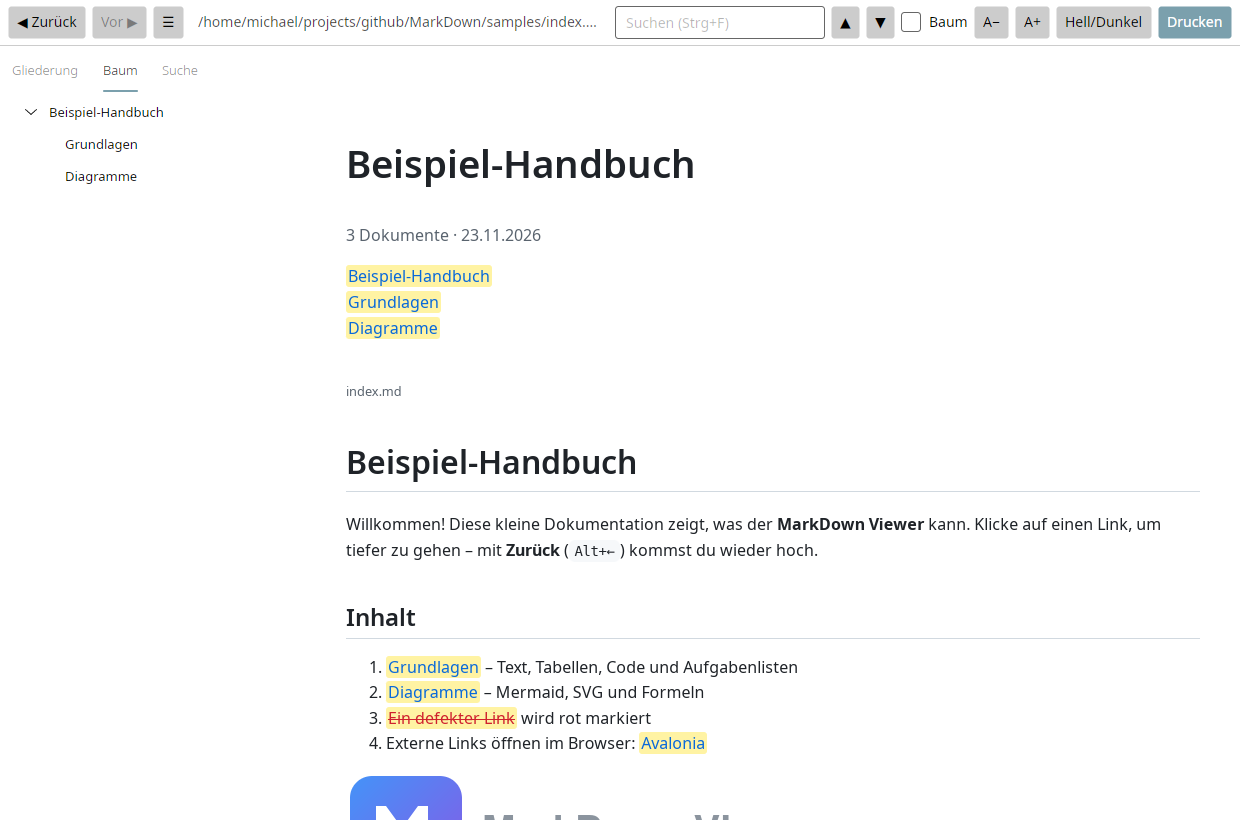
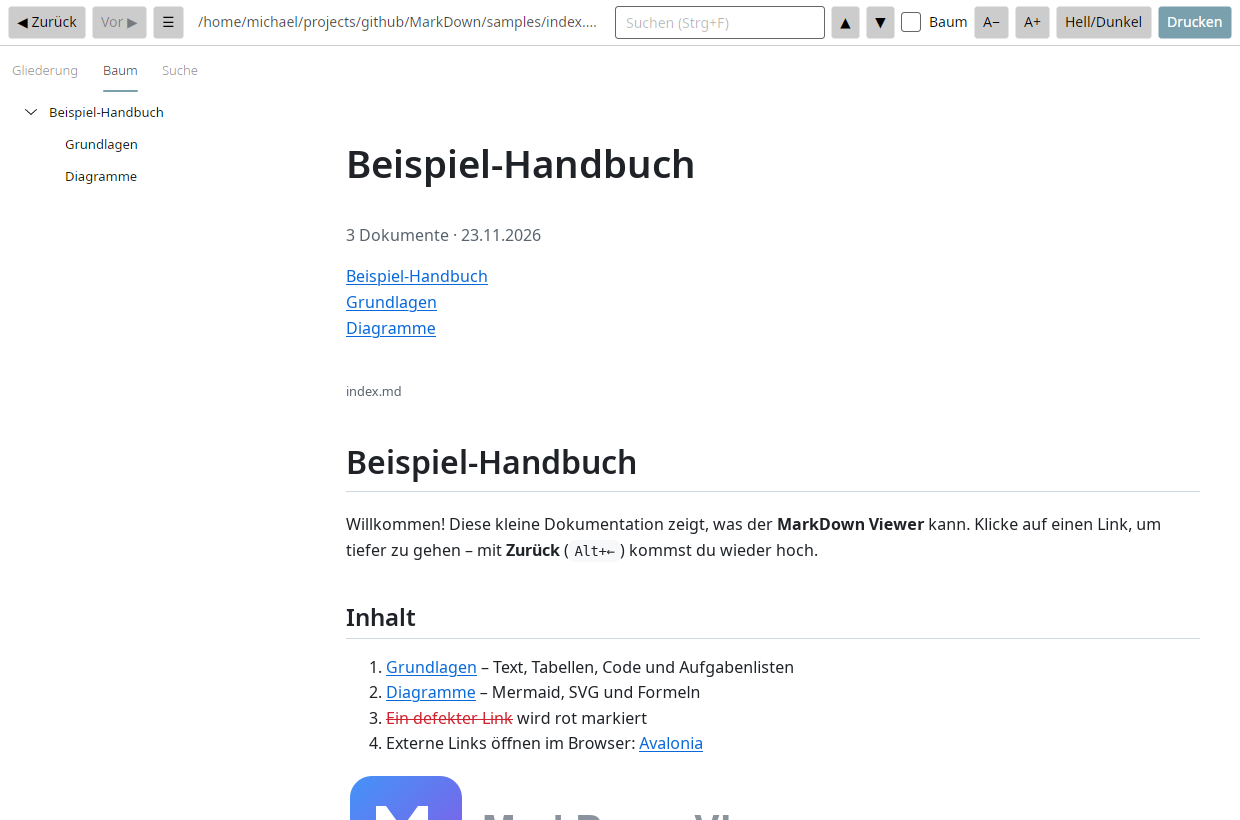
Druck: Links blau und unterstrichen statt gelb hinterlegt

Changed region(s): [[0.3065, 0.7927, 0.6435, 0.9451], [0.2758, 0.3049, 0.3984, 0.4268]]

diff --git a/src/MarkDownViewer.Core/web/app.css b/src/MarkDownViewer.Core/web/app.css
@@ -42,10 +42,11 @@ body[data-mode^="print"] .doc-path { display: block; }
 .print-toc ol { list-style: none; padding: 0; }
 .doc-path { color: var(--muted); font-size: .8em; margin-bottom: -.8em; }
 .doc-section { margin-top: 2.5em; }
-body[data-mode^="print"] a[href] { background: var(--hl); border-radius: 3px; padding: 0 2px; }
+body[data-mode^="print"] a[href] { text-decoration: underline; text-underline-offset: 2px; }
+body[data-mode^="print"] a.broken-link { text-decoration: line-through; }
 
 @page { margin: 18mm 16mm; }
-/* Druck: immer heller Grund mit dunklem Text (keine schwarzen Seiten); Link-Markierung in Gelb bleibt erhalten */
+/* Druck: immer heller Grund mit dunklem Text (keine schwarzen Seiten); Links blau + unterstrichen, Ziel dahinter */
 @media print {
   html, body { background: #fff !important; color: #000 !important; }
   .markdown-body { max-width: none; padding: 0; }
@@ -54,7 +55,7 @@ body[data-mode^="print"] a[href] { background: var(--hl); border-radius: 3px; pa
   pre { white-space: pre-wrap; overflow: visible; }
   .doc-section { break-before: page; margin-top: 0; }
   .print-cover { break-after: page; }
-  a[href] { -webkit-print-color-adjust: exact; print-color-adjust: exact; background: var(--hl); color: var(--link); text-decoration: underline; padding: 0 2px; border-radius: 2px; }
-  a[data-target]:not([data-target=""])::after { content: " [" attr(data-target) "]"; font-size: .8em; color: var(--muted); word-break: break-all; }
-  a.broken-link { background: none; color: #cf222e; }
+  a[href] { color: #0b57d0; text-decoration: underline; text-underline-offset: 2px; }
+  a[data-target]:not([data-target=""])::after { content: " [" attr(data-target) "]"; display: inline-block; text-decoration: none; font-size: .8em; color: var(--muted); word-break: break-all; }
+  a.broken-link { color: #cf222e; text-decoration: line-through; }
 }

diff --git a/src/MarkDownViewer.Core/MarkdownEngine.cs b/src/MarkDownViewer.Core/MarkdownEngine.cs
@@ -155,7 +155,7 @@ public sealed partial class MarkdownEngine
                     else if (included is not null && r.Kind == LinkKind.Markdown && included.TryGetValue(r.Path, out var idx))
                     {
                         link.Url = $"#d{idx}" + (r.Fragment is null ? "" : "-" + Uri.EscapeDataString(r.Fragment));
-                        attrs.AddProperty("data-target", $"siehe Abschnitt {idx + 1}");
+                        attrs.AddProperty("data-target", $"→ Abschnitt {idx + 1}");
                     }
                     else
                     {

diff --git a/SPEC.md b/SPEC.md
@@ -50,11 +50,11 @@ Ein schneller, zuverlässiger Desktop-Viewer für Markdown-Dokumentationen, die 
 
 ### 6. Drucken / PDF
 - Button „Drucken“ (`Strg+P`) öffnet Dialog mit Auswahl:
-  - **Nur aktuelles Dokument**: Links gelb hinterlegt; auf Papier steht das Linkziel in Klammern dahinter
+  - **Nur aktuelles Dokument**: Links blau und unterstrichen (ohne Hintergrundfläche); dahinter steht klein das Linkziel in Klammern, bei Verweisen im Baum „→ Abschnitt N“
   - **Gesamter Baum**: Deckblatt mit Inhaltsverzeichnis, dann alle per Link nach unten erreichbaren Dokumente in Lesereihenfolge, jedes einmal, je Dokument neue Seite; interne Links zeigen auf den jeweiligen Abschnitt
 - Danach öffnet sich der Druckdialog des Systems (dort auch „In Datei drucken“/PDF)
 - Die Druckansicht ist ein Verlaufseintrag; „Zurück“ führt zum Dokument
-- **Nie schwarze Seiten** (Toner-/Tintensparend): Die Druckansicht rendert stets im hellen Theme mit weißem Grund und dunklem Text, auch wenn die App im Dunkel-Theme läuft. Die gelbe Link-Markierung bleibt erhalten
+- **Nie schwarze Seiten** (Toner-/Tintensparend): Die Druckansicht rendert stets im hellen Theme mit weißem Grund und dunklem Text, auch wenn die App im Dunkel-Theme läuft.
 - Print-CSS: Seitenumbrüche vor Kapiteln, Diagramme/Bilder/Tabellen werden nicht zerschnitten
 
 ### 7. Komfort

diff --git a/README.md b/README.md
@@ -80,10 +80,10 @@ Mermaid und Code-Highlighting passen sich dem Theme an. Die Wahl wird gemerkt.
 <img src="docs/screenshots/06-druckdialog.png" alt="Druckdialog" width="460">
 </p>
 
-- **Nur das aktuelle Dokument:** Links sind gelb hinterlegt, auf Papier steht das Ziel in Klammern dahinter.
+- **Nur das aktuelle Dokument:** Links sind blau und unterstrichen, dahinter steht klein das Ziel in Klammern.
 - **Gesamter Baum:** Deckblatt mit Inhaltsverzeichnis, danach alle Dokumente nach unten in Lesereihenfolge – jedes einmal, jedes auf neuer Seite. Interne Links verweisen auf den jeweiligen Abschnitt.
 
-Gedruckt wird **immer auf weißem Grund mit dunklem Text** – auch wenn du im dunklen Theme liest. Es gibt also nie schwarz gefüllte Seiten, die Toner oder Tinte verbrauchen. Die gelbe Link-Markierung bleibt.
+Gedruckt wird **immer auf weißem Grund mit dunklem Text** – auch wenn du im dunklen Theme liest. Es gibt also nie schwarz gefüllte Seiten, die Toner oder Tinte verbrauchen. 
 
 Danach öffnet sich der Druckdialog des Systems, dort geht auch **In Datei drucken (PDF)**.
 
